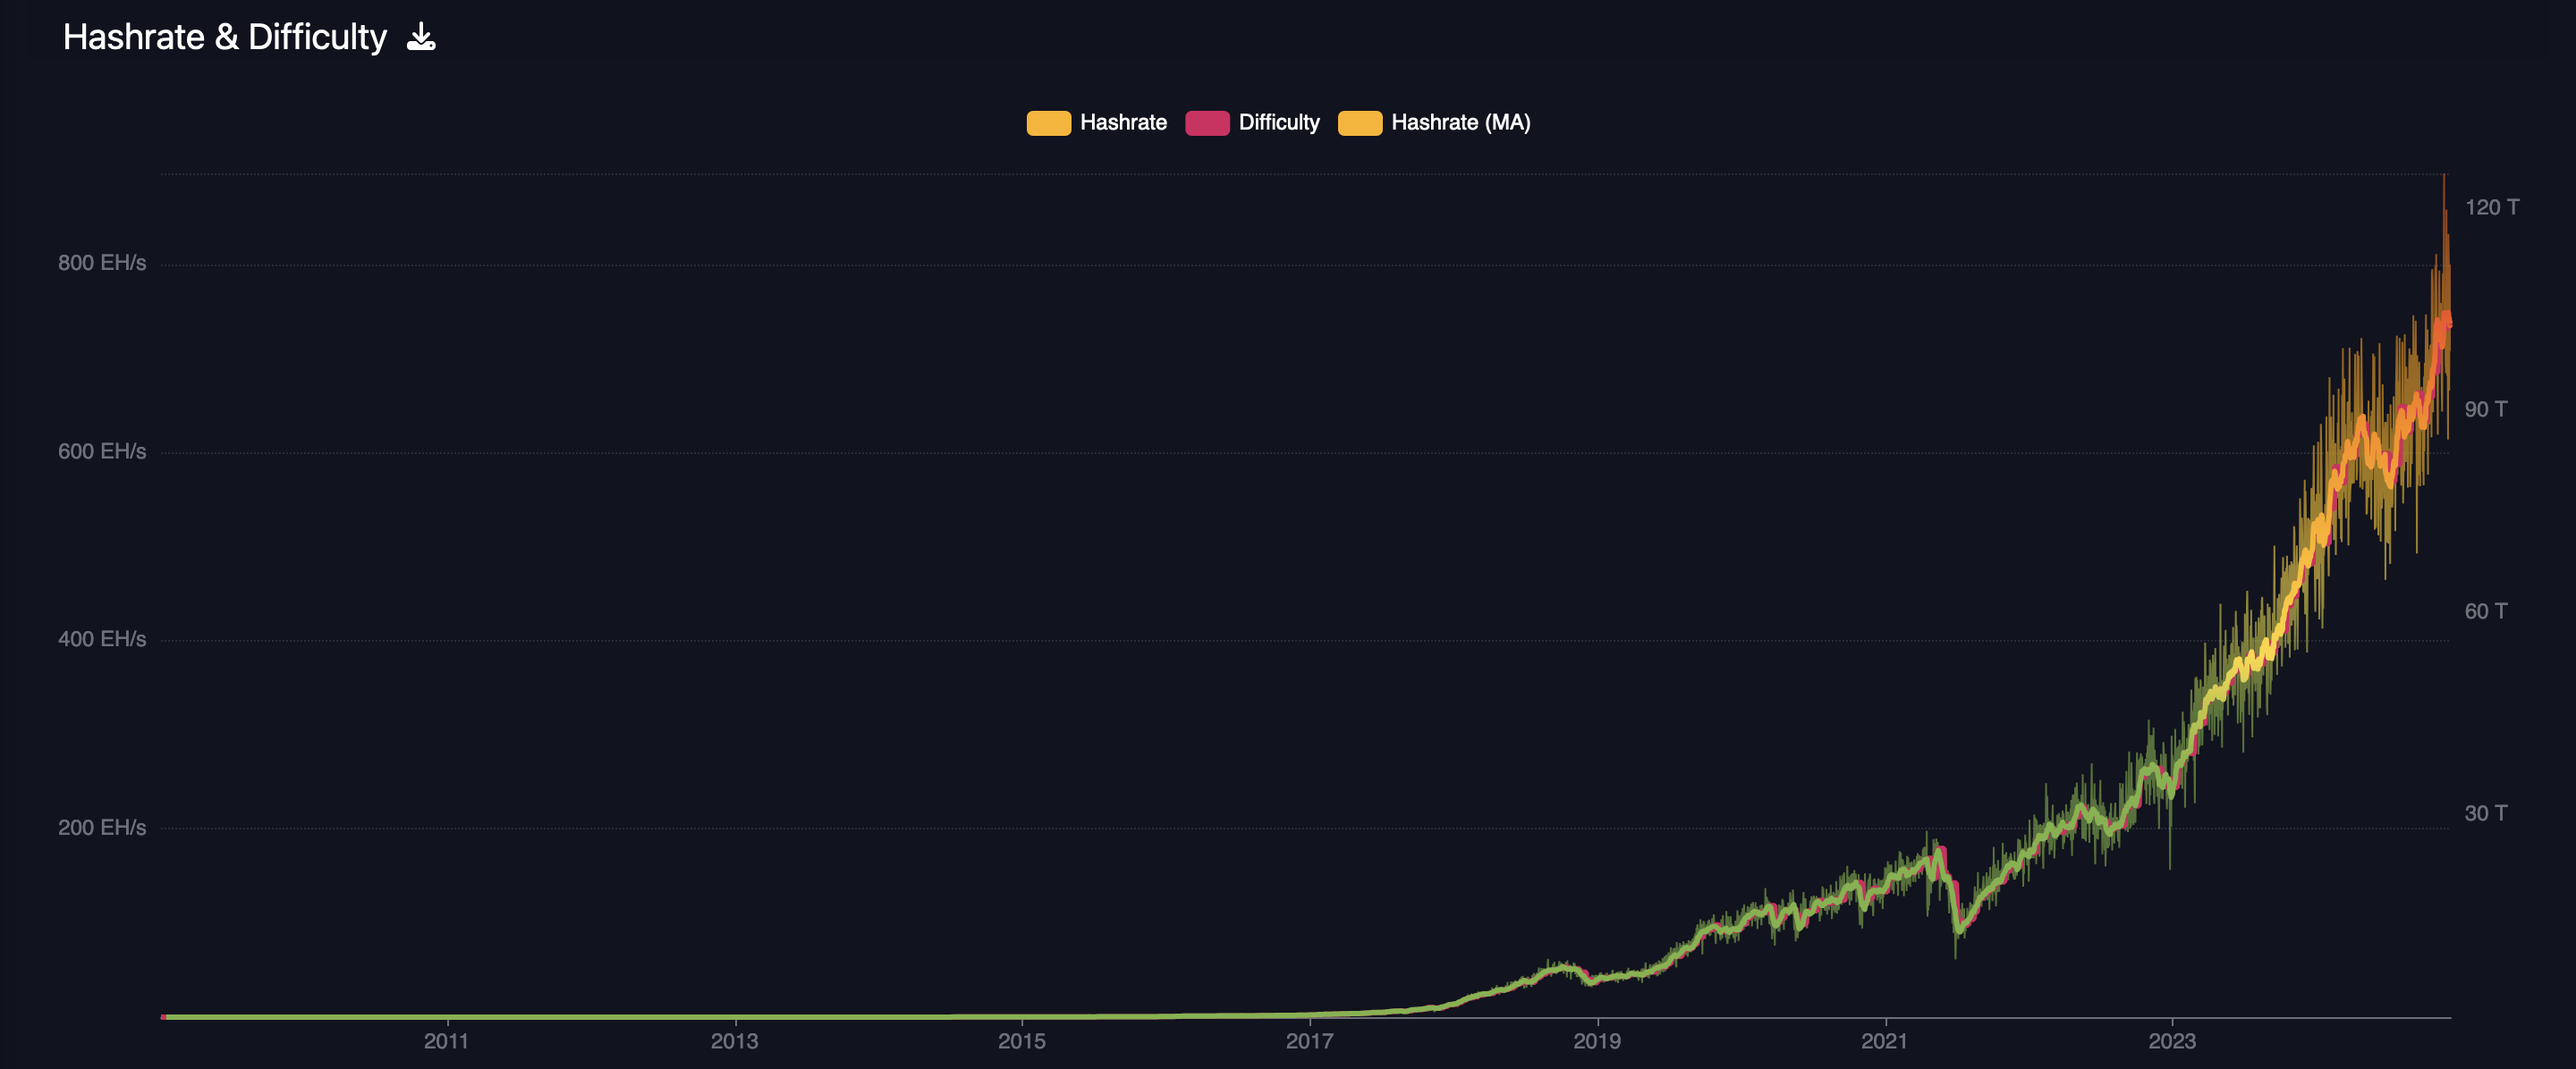
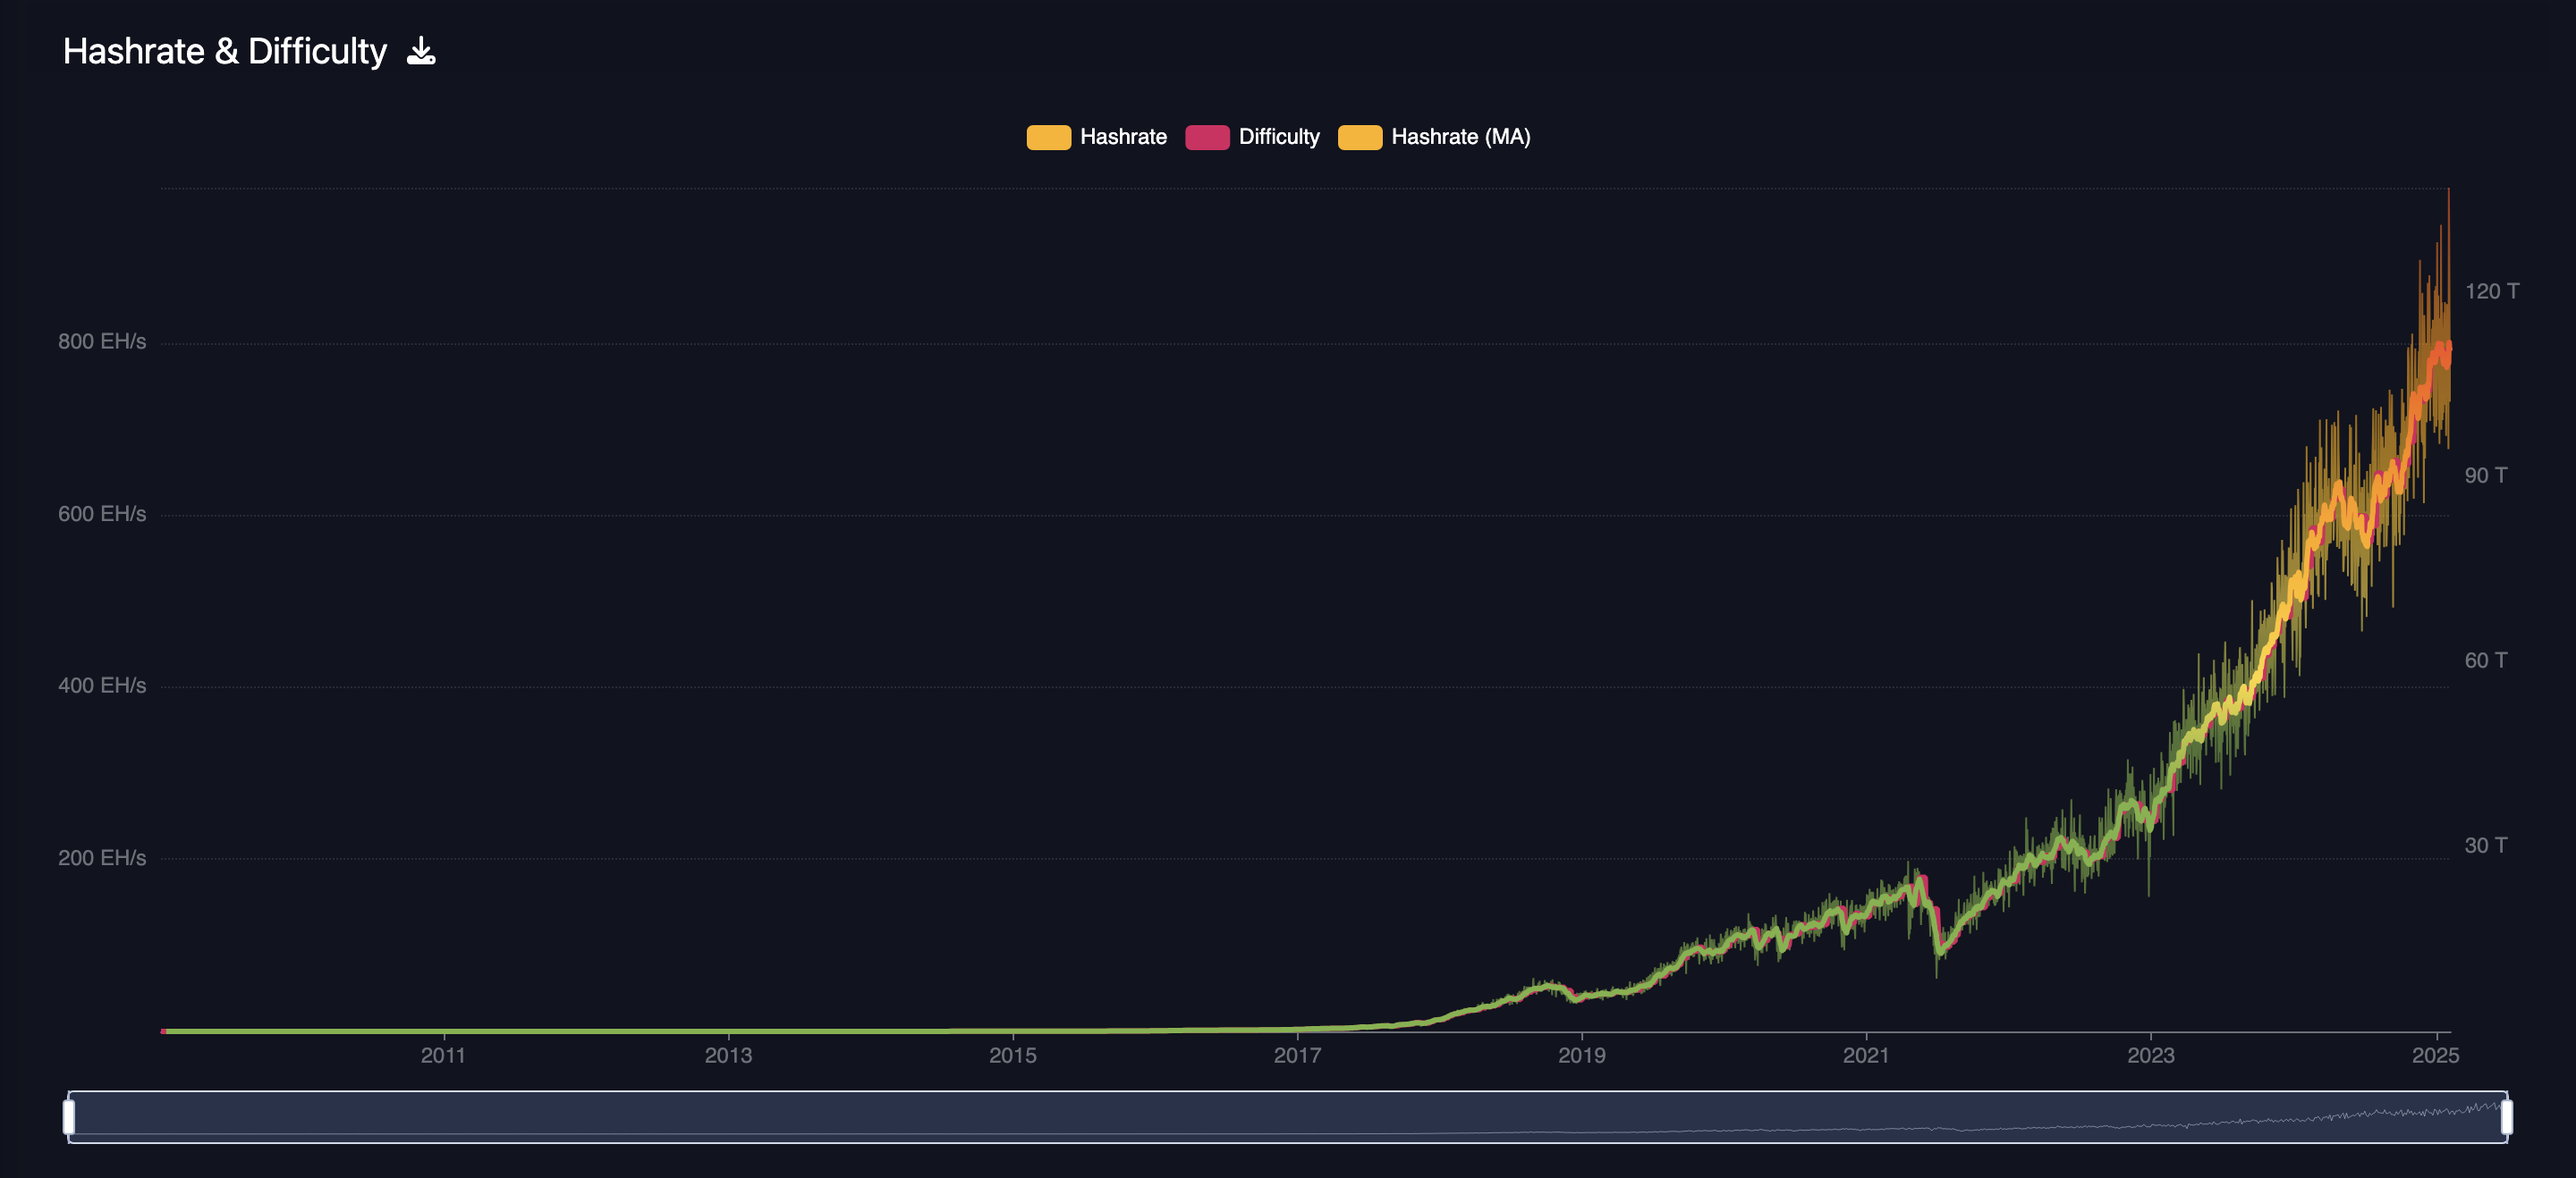
hashrate and pools-chart updated at Feb 2025

diff --git a/md/sv2-intro.md b/md/sv2-intro.md
@@ -43,6 +43,8 @@ A mining protocol defines a set of communication rules between mining devices, p
 
 ![center](../img/fpps-pharaoh-TEMPLATES.png)
 
+To check it in real-time: https://mempool.space/stratum
+
 ---
 
 # 🚨 BLOCKSPACE MONOPOLIZATION 🚨
